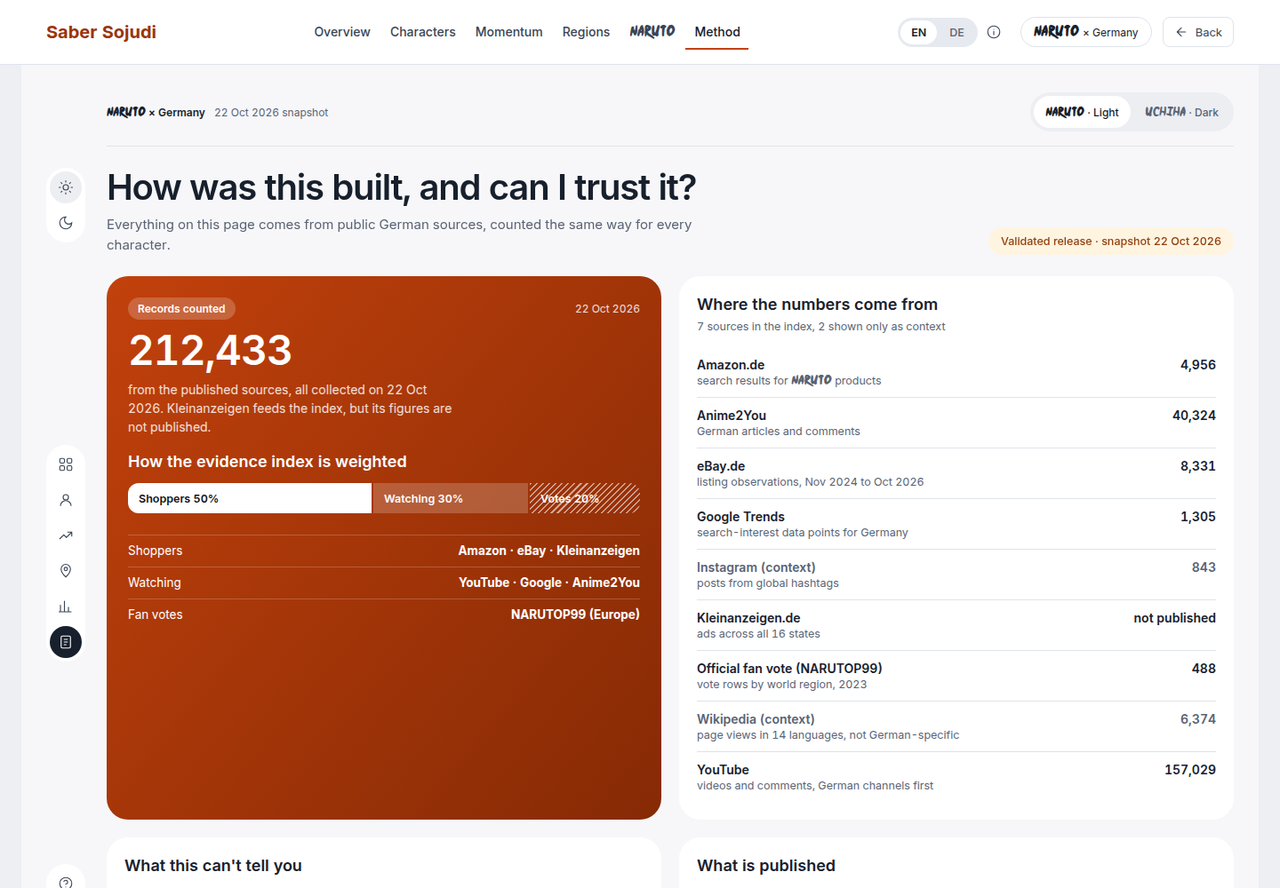
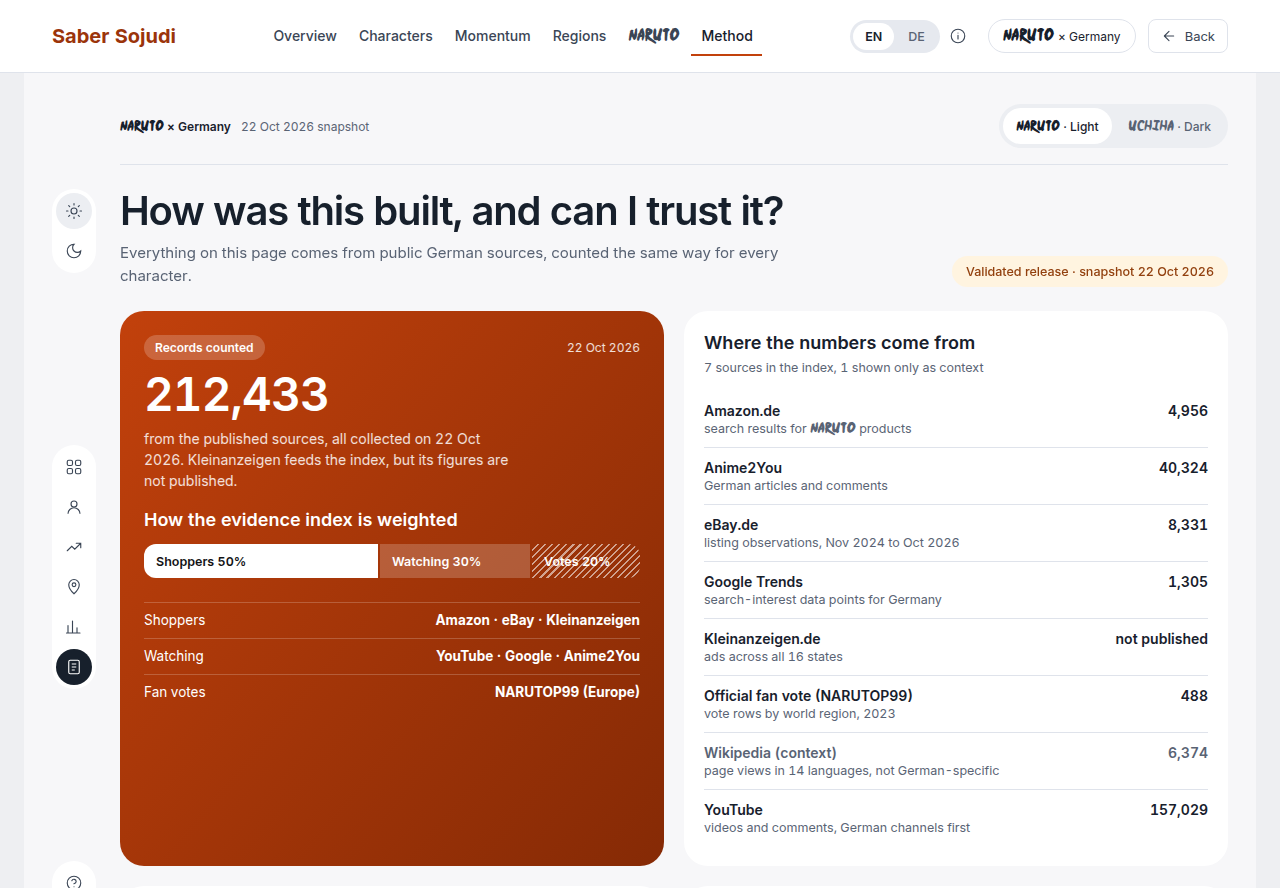
Remove Instagram from the published data, page and pipeline
Instagram was a context-only source (never scored), so no rank or index
changes. Its robots.txt prohibits automated collection, so it is dropped
from the release, schema, page, README and analysis code. The release id and
hash are regenerated and the stale reconciliation-report note is removed.

diff --git a/index.html b/index.html
@@ -372,7 +372,7 @@ en:{
  "me.srcT":"Where the numbers come from","me.srcS":"8 sources in the index, 2 shown only as context",
  "s.am":"Amazon.de","s.amn":"search results for Naruto products","s.eb":"eBay.de","s.ebn":"listing observations, Nov 2024 to Oct 2026","s.ka":"Kleinanzeigen.de","s.kan":"ads across all 16 states",
  "s.yt":"YouTube","s.ytn":"videos and comments, German channels first","s.gt":"Google Trends","s.gtn":"search-interest data points for Germany","s.a2":"Anime2You","s.a2n":"German articles and comments",
- "s.vo":"Official fan vote (NARUTOP99)","s.von":"vote rows by world region, 2023","s.wk":"Wikipedia (context)","s.wkn":"page views in 14 languages, not German-specific","s.ig":"Instagram (context)","s.ign":"posts from global hashtags",
+ "s.vo":"Official fan vote (NARUTOP99)","s.von":"vote rows by world region, 2023","s.wk":"Wikipedia (context)","s.wkn":"page views in 14 languages, not German-specific",
  "me.limT":"What this can't tell you","me.lim1":"How many units sold. Shops show listings and asking prices, not sales.","me.lim2":"Where people live. German-language sources include Austria and Switzerland.","me.lim3":"Whether people buy a particular product. Merchandise is a signal, not a sales test.",
  "me.pubT":"What is published","me.pub1":"Only totals, medians and shares. No listings, comments, names or links.","me.pub2":"Kleinanzeigen is part of the index. Its figures are not shown on this page.","me.pub3":"YouTube figures are our own counts as of 22 Oct 2026, never YouTube's view or like statistics.",
  "me.dl":"Download the aggregated data"
@@ -415,7 +415,7 @@ de:{
  "me.srcT":"Woher die Zahlen kommen","me.srcS":"8 Quellen im Index, 2 nur als Kontext",
  "s.am":"Amazon.de","s.amn":"Suchergebnisse für Naruto-Produkte","s.eb":"eBay.de","s.ebn":"Angebotsbeobachtungen, Nov. 2024 bis Okt. 2026","s.ka":"Kleinanzeigen.de","s.kan":"Anzeigen aus allen 16 Bundesländern",
  "s.yt":"YouTube","s.ytn":"Videos und Kommentare, deutsche Kanäle zuerst","s.gt":"Google Trends","s.gtn":"Datenpunkte zum Suchinteresse in Deutschland","s.a2":"Anime2You","s.a2n":"deutsche Artikel und Kommentare",
- "s.vo":"Offizielles Fan-Voting (NARUTOP99)","s.von":"Stimmzeilen nach Weltregion, 2023","s.wk":"Wikipedia (Kontext)","s.wkn":"Seitenaufrufe in 14 Sprachen, nicht nur Deutschland","s.ig":"Instagram (Kontext)","s.ign":"Beiträge aus globalen Hashtags",
+ "s.vo":"Offizielles Fan-Voting (NARUTOP99)","s.von":"Stimmzeilen nach Weltregion, 2023","s.wk":"Wikipedia (Kontext)","s.wkn":"Seitenaufrufe in 14 Sprachen, nicht nur Deutschland",
  "me.limT":"Was diese Seite nicht zeigt","me.lim1":"Wie viel verkauft wurde. Shops zeigen Angebote und Preise, keine Verkäufe.","me.lim2":"Wo die Leute wohnen. Deutschsprachige Quellen umfassen auch Österreich und die Schweiz.","me.lim3":"Ob jemand ein bestimmtes Produkt kauft. Merchandise ist ein Signal, kein Verkaufstest.",
  "me.pubT":"Was veröffentlicht wird","me.pub1":"Nur Summen, Mediane und Anteile. Keine Angebote, Kommentare, Namen oder Links.","me.pub2":"Kleinanzeigen ist Teil des Index. Die Zahlen daraus werden auf dieser Seite nicht gezeigt.","me.pub3":"YouTube-Zahlen sind eigene Zählungen vom Stand 22.10.2026, nie YouTubes Aufruf- oder Like-Statistiken.",
  "me.dl":"Aggregierte Daten herunterladen"
@@ -593,7 +593,7 @@ momentum_after(){
     document.querySelectorAll("[data-mo]").forEach(x=>x.setAttribute("aria-pressed",String(moSel.includes(x.dataset.mo))));draw()});
 },
 method(){
-  const L={amazon:["s.am","s.amn"],ebay:["s.eb","s.ebn"],kleinanzeigen:["s.ka","s.kan"],youtube:["s.yt","s.ytn"],google_trends:["s.gt","s.gtn"],anime2you:["s.a2","s.a2n"],narutop99:["s.vo","s.von"],wikimedia:["s.wk","s.wkn"],instagram:["s.ig","s.ign"]};
+  const L={amazon:["s.am","s.amn"],ebay:["s.eb","s.ebn"],kleinanzeigen:["s.ka","s.kan"],youtube:["s.yt","s.ytn"],google_trends:["s.gt","s.gtn"],anime2you:["s.a2","s.a2n"],narutop99:["s.vo","s.von"],wikimedia:["s.wk","s.wkn"]};
   const Wt=D.weights, pct=x=>Math.round(x*100);
   return head(t("me.title"),t("me.sub"))+`<div class="grid">
    <section class="hero-card c6 reveal" aria-label="${esc(t("me.heroLab"))}">

diff --git a/data/dashboard.js b/data/dashboard.js
@@ -973,7 +973,6 @@ window.DASHBOARD = {
[1 lines of base64/hex data omitted]
   "notes": [
    "Validated release: deduped entity counts, accuracy-checked.",
-   "See reports/RECONCILIATION.md for the number trail.",
    "generated_utc is pinned to the snapshot date (midnight UTC) for reproducible hashes.",
    "change_12m is rounded to 1 dp; momentum series values to 2 dp.",
    "records counts only rows of series that feed the score (censored Trends series excluded).",
@@ -981,7 +980,7 @@ window.DASHBOARD = {
    "Kendall W (all 7 sources, n=3 complete cases) = 0.429",
    "Public edition: Kleinanzeigen figures are not published; the source still feeds the evidence index."
   ],
-  "release_id": "v1.2.0-20261022-fb74b269",
+  "release_id": "v1.2.0-20261022-8187b745",
   "snapshot_date": "2026-10-22",
   "status": "validated",
   "youtube_snapshot": "2026-10-22"
@@ -1568,11 +1567,6 @@ window.DASHBOARD = {
    "id": "google_trends",
    "in_score": true,
    "records": 1305
-  },
-  {
-   "id": "instagram",
-   "in_score": false,
-   "records": 843
   },
   {
    "id": "kleinanzeigen",

diff --git a/analysis/src/nga/votes/context.py b/analysis/src/nga/votes/context.py
@@ -1,17 +1,12 @@
-"""Context sources (ANALYSIS_PLAN.md §4): Wikimedia pageviews and Instagram media.
+"""Context source (ANALYSIS_PLAN.md §4): Wikimedia pageviews.
 
-Both are lens ``context``, non-primary (shown, never ranked), class C.
+Lens ``context``, non-primary (shown, never ranked), class C.
 
 Wikimedia: granularity = 'monthly', agent = 'user', last 12 complete months
 before the 2026-10-22 snapshot (2025-10 .. 2026-09), all languages summed.
 Metric ``pageviews_12m``.
-
-Instagram: media records (``record_type = 'media'``) whose ``mentions_detail``
-keys name the character. Metric ``media`` (distinct media count).
 """
 from __future__ import annotations
-
-import json
 
 import duckdb
 import pandas as pd
@@ -62,46 +57,3 @@ def wikimedia_run() -> tuple[pd.DataFrame, int]:
     } for key in characters.keys()]
     return pd.DataFrame(rows), int(df["n"].sum())
 
-
-def _media_character_sets() -> dict[str, set[str]]:
-    """Map character key -> set of media record_ids mentioning it."""
-    con = duckdb.connect()
-    rows = con.execute(
-        """SELECT record_id, mentions_detail FROM read_parquet(?)
-           WHERE record_type = 'media'""",
-        [str(dataset("instagram", "raw", "parquet", "insta_records.parquet"))],
-    ).fetchall()
-    con.close()
-    smap = characters.source_map("instagram")
-    found: dict[str, set[str]] = {k: set() for k in characters.keys()}
-    n_media = 0
-    for record_id, detail in rows:
-        n_media += 1
-        try:
-            keys = json.loads(detail or "{}")
-        except json.JSONDecodeError:
-            keys = {}
-        for k in keys:
-            if k in smap:
-                found[smap[k]].add(record_id)
-    return found, n_media
-
-
-def instagram_run() -> tuple[pd.DataFrame, int]:
-    """Return (metrics frame, media rows scanned) for Instagram mentions."""
-    found, n_media = _media_character_sets()
-    rows = [{
-        "character_key": key,
-        "source": "instagram",
-        "metric": "media",
-        "period": "snapshot",
-        "region": "global",  # collection is not DE-scoped
-        "value": float(len(found[key])),
-        "n": len(found[key]),  # distinct media records behind the count
-        "unit": "count",
-        "evidence_class": "C",
-        "lens": "context",
-        "primary": False,
-        "lane": "votes",
-    } for key in characters.keys()]
-    return pd.DataFrame(rows), n_media

diff --git a/analysis/tests/votes/test_metrics.py b/analysis/tests/votes/test_metrics.py
@@ -28,15 +28,11 @@ def test_votes_eu_present_for_all_14():
 @archive_present
 def test_context_metrics_cover_all_14():
     wiki, wiki_rows = context.wikimedia_run()
-    insta, insta_media = context.instagram_run()
     assert set(wiki["character_key"]) == set(characters.keys())
-    assert set(insta["character_key"]) == set(characters.keys())
-    assert (wiki["value"] > 0).all() and (insta["value"] > 0).all()
-    assert not wiki["primary"].any() and not insta["primary"].any()
+    assert (wiki["value"] > 0).all()
+    assert not wiki["primary"].any()
     metrics.validate(wiki)
-    metrics.validate(insta)
     assert wiki_rows == 6374
-    assert insta_media == 843
 
 
 @pytest.mark.archive
@@ -47,13 +43,10 @@ def test_t04_catalog_totals_match():
                     "narutop99_rankings.parquet"))
     w = str(dataset("wikimedia", "collector", "exports", "full_2026-10-22",
                     "pageviews.parquet"))
-    i = str(dataset("instagram", "raw", "parquet", "insta_records.parquet"))
     assert con.execute(
         f"SELECT COUNT(*) FROM read_parquet('{a}')").fetchone()[0] == 4392
     assert con.execute(
         f"SELECT COUNT(*) FROM read_parquet('{w}')").fetchone()[0] == 482680
-    assert con.execute(
-        f"SELECT COUNT(*) FROM read_parquet('{i}')").fetchone()[0] == 918
     assert con.execute(
         f"SELECT COUNT(*) FROM read_parquet('{a}') "
         "WHERE region = 'europe'").fetchone()[0] == 488

diff --git a/analysis/tests/test_foundation.py b/analysis/tests/test_foundation.py
@@ -29,7 +29,7 @@ def test_fourteen_locked_characters():
 
 
 def test_source_maps_cover_every_character():
-    for source in ["amazon", "ebay", "kleinanzeigen", "youtube", "instagram", "wikimedia", "anime2you", "narutop99", "trends_term"]:
+    for source in ["amazon", "ebay", "kleinanzeigen", "youtube", "wikimedia", "anime2you", "narutop99", "trends_term"]:
         assert set(characters.source_map(source).values()) == set(characters.keys()), source
 
 
@@ -164,7 +164,7 @@ def _entity_key_set(column, *parts, wrapped=True):
     """Distinct set of entity keys in a JSON mentions column.
 
     YouTube stores {"entities": {key: ...}} (wrapped=True);
-    Instagram stores {key: ...} directly (wrapped=False).
+    a flat {key: ...} mapping is read with wrapped=False.
     """
     con = duckdb.connect()
     values = con.execute(
@@ -200,9 +200,6 @@ def test_spellings_exist_in_archive():
         | _entity_key_set(
             "d_mentions",
             "youtube", "raw", "parquet", "naruto-de-youtube-v1__comments.parquet"),
-        "instagram": _entity_key_set(
-            "mentions_detail",
-            "instagram", "raw", "parquet", "insta_records.parquet", wrapped=False),
         "wikimedia": _archive_key_set(
             "SELECT DISTINCT character_key FROM read_parquet(?)",
             [str(paths.dataset("wikimedia", "collector", "exports",

diff --git a/analysis/src/nga/votes/__main__.py b/analysis/src/nga/votes/__main__.py
@@ -15,8 +15,7 @@ def main() -> None:
     check_archive()
     votes = narutop99.run()
     wiki, wiki_rows = context.wikimedia_run()
-    insta, insta_media = context.instagram_run()
-    all_metrics = pd.concat([votes, wiki, insta], ignore_index=True)
+    all_metrics = pd.concat([votes, wiki], ignore_index=True)
     metrics.write(all_metrics, "votes")
 
     events_doc = events.build_events()
@@ -27,15 +26,13 @@ def main() -> None:
     work("aux", "sources_votes.json").write_text(json.dumps([
         {"id": "narutop99", "records": n_europe, "in_score": True},
         {"id": "wikimedia", "records": wiki_rows, "in_score": False},
-        {"id": "instagram", "records": insta_media, "in_score": False},
     ], indent=2) + "\n")
     work("aux", "kpis_votes.json").write_text(json.dumps({}, indent=2) + "\n")
 
     prim = all_metrics[all_metrics["primary"]]
     print(prim.pivot_table(index="character_key", columns="source",
                            values="value", aggfunc="first").to_string())
-    print(f"wikimedia_rows_12m={wiki_rows} instagram_media={insta_media} "
-          f"narutop99_europe={n_europe}")
+    print(f"wikimedia_rows_12m={wiki_rows} narutop99_europe={n_europe}")
     print(f"events={len(events_doc)}")
 
 

diff --git a/analysis/src/nga/release/provenance.py b/analysis/src/nga/release/provenance.py
@@ -31,7 +31,6 @@ FALLBACK_INPUTS = [
     "datasets/anime2you/data/full/comments.parquet",
     "datasets/anime2you/data/external/narutop99/narutop99_rankings.parquet",
     "datasets/wikimedia/collector/exports/full_2026-10-22/pageviews.parquet",
-    "datasets/instagram/raw/parquet/insta_records.parquet",
     "datasets/event_calendar/data/events.parquet",
 ]
 
@@ -121,7 +120,6 @@ def make_meta(
         if notes is not None
         else [
             "Validated release: deduped entity counts, accuracy-checked.",
-            "See reports/RECONCILIATION.md for the number trail.",
             "generated_utc is pinned to the snapshot date (midnight UTC) for reproducible hashes.",
             "change_12m is rounded to 1 dp; momentum series values to 2 dp.",
             "records counts only rows of series that feed the score (censored Trends series excluded).",

diff --git a/analysis/tests/accuracy/test_sample.py b/analysis/tests/accuracy/test_sample.py
@@ -51,10 +51,10 @@ def test_small_stratum_takes_everything_available():
 
 
 def test_load_matches_reads_only_keyword_sources(tmp_path):
-    df = make_matches({("amazon", "sasuke_uchiha"): 5, ("instagram", "sasuke_uchiha"): 5})
+    df = make_matches({("amazon", "sasuke_uchiha"): 5, ("wikimedia", "sasuke_uchiha"): 5})
     write_matches(df, tmp_path)
     loaded = load_matches(tmp_path)
-    assert set(loaded.source.unique()) == {"amazon"}  # instagram is not keyword-matched
+    assert set(loaded.source.unique()) == {"amazon"}  # wikimedia is not keyword-matched
 
 
 def test_run_writes_sample_parquet(tmp_path, ample_matches):

diff --git a/analysis/src/nga/metrics.py b/analysis/src/nga/metrics.py
@@ -25,7 +25,7 @@ COLUMNS = {
     "lane": "string",            # the shops lane..the votes lane
 }
 SOURCES = {"amazon", "ebay", "kleinanzeigen", "youtube", "google_trends", "anime2you",
-           "narutop99", "wikimedia", "instagram", "event_calendar"}
+           "narutop99", "wikimedia", "event_calendar"}
 LENSES = {"shoppers", "watching", "votes", "context"}
 CLASSES = {"A", "B", "C", "D", "E"}
 

diff --git a/analysis/src/nga/votes/__init__.py b/analysis/src/nga/votes/__init__.py
@@ -1,4 +1,4 @@
-"""Votes + context lane (votes lane): NARUTOP99 fan vote, Wikimedia/Instagram context,
+"""Votes + context lane (votes lane): NARUTOP99 fan vote, Wikimedia context,
 the dashboard event timeline.
 
 Reads the read-only archive in place; writes work/metrics/votes.parquet and

diff --git a/analysis/src/nga/release/build.py b/analysis/src/nga/release/build.py
@@ -676,7 +676,6 @@ SOURCE_IDS = frozenset(
         "anime2you",
         "narutop99",
         "wikimedia",
-        "instagram",
     ]
 )
 

diff --git a/analysis/ANALYSIS_PLAN.md b/analysis/ANALYSIS_PLAN.md
@@ -45,7 +45,6 @@ General:
 | **Anime2You** | `anime2you/data/full/posts.parquet`, `comments.parquet` | **Primary metric:** comment mentions. Match `text_aliases` on `content_text`, whole word, case-sensitive. Ambiguous bare aliases (Hinata, Pain) count only when a `naruto_context_words` term appears in the same comment. Dedupe comment `id`. Secondary: articles via `characters_mentioned`. |
 | **NARUTOP99** | `anime2you/data/external/narutop99/narutop99_rankings.parquet` | `region = 'europe'`. **Primary metric:** votes (exact name map from characters.yaml). One 2023 snapshot. |
 | **Wikimedia** (context) | `wikimedia/collector/exports/full_2026-10-22/pageviews.parquet` | `granularity = 'monthly'`, `agent = 'user'`, last 12 complete months, all languages. `primary = false`, lens `context`. |
-| **Instagram** (context) | `instagram/raw/parquet/insta_records.parquet` | Media count per character from `mentions_detail`. `primary = false`, lens `context`. |
 | **Event calendar** | `event_calendar/data/events.parquet` | Dashboard timeline: ≤ 6 events from franchise event types only, chosen in this order: (1) `confirmed` German-relevant events (`region_scope` de/dach) in the core window, newest first, leaving one slot; (2) the newest `confirmed` franchise announcement. Each needs `source_url`. Titles/notes in EN and DE, written by the lane (facts only). |
 
 ## §5 Metric registry and lenses
@@ -63,7 +62,6 @@ Every lane writes the long table in `src/nga/metrics.py`. Exactly one `primary` 
 | narutop99 | `votes_eu` | votes | C | yes |
 | youtube (2nd) | `videos_de` | watching | B | **no** (secondary; shown, not ranked, because it overlaps with comments) |
 | wikimedia | `pageviews_12m` | context | C | no |
-| instagram | `media` | context | C | no |
 
 That gives **7 in-score sources:** 3 shoppers, 3 watching, 1 votes. The dashboard's `kpis.sources_in_score` = 7. The preview's 8 counted YouTube twice; that was a preview artefact.
 
@@ -172,3 +170,4 @@ Values: use the same values scoring uses (after §6 treatments; an excluded cand
 Wording rule for reports: "Minato reaches 640% of Naruto's Europe vote", never "Sasuke is more popular than Naruto".
 - 2026-10-23 — §8 kpis/sources — Record counts cover only records actually used: google_trends `records` and kpis.records_counted exclude the rows of censored series.
 - 2026-10-23 — §8 momentum — change_12m stays in the release for every shown series (contract unchanged), but values flagged `censored` must not be displayed or described as a trend. counts.google_interest = null means "not measurable (censored or ambiguous)", never zero. Both rules are stated in meta.notes and the release notes.
+- 2026-10-24 — §4 / §5 — Instagram removed from the analysis and the release: it was a context-only source (never scored, never ranked), so no rank, index or robustness result changes. Reason: Instagram's robots.txt prohibits automated collection, so its data is not used in the public edition. Contract `sources` loses the `instagram` entry; the release id changes accordingly.
